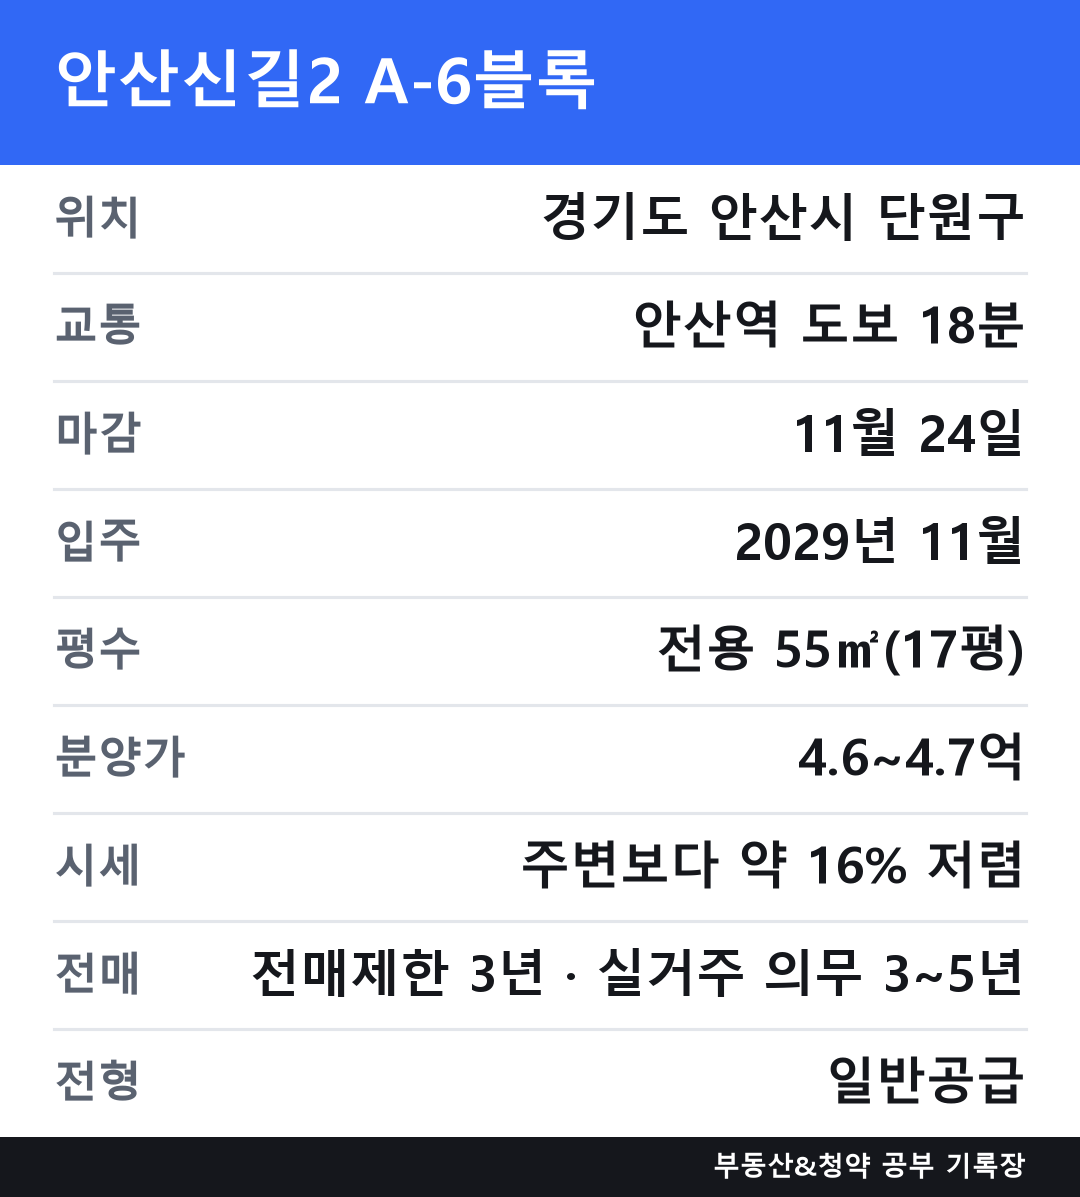
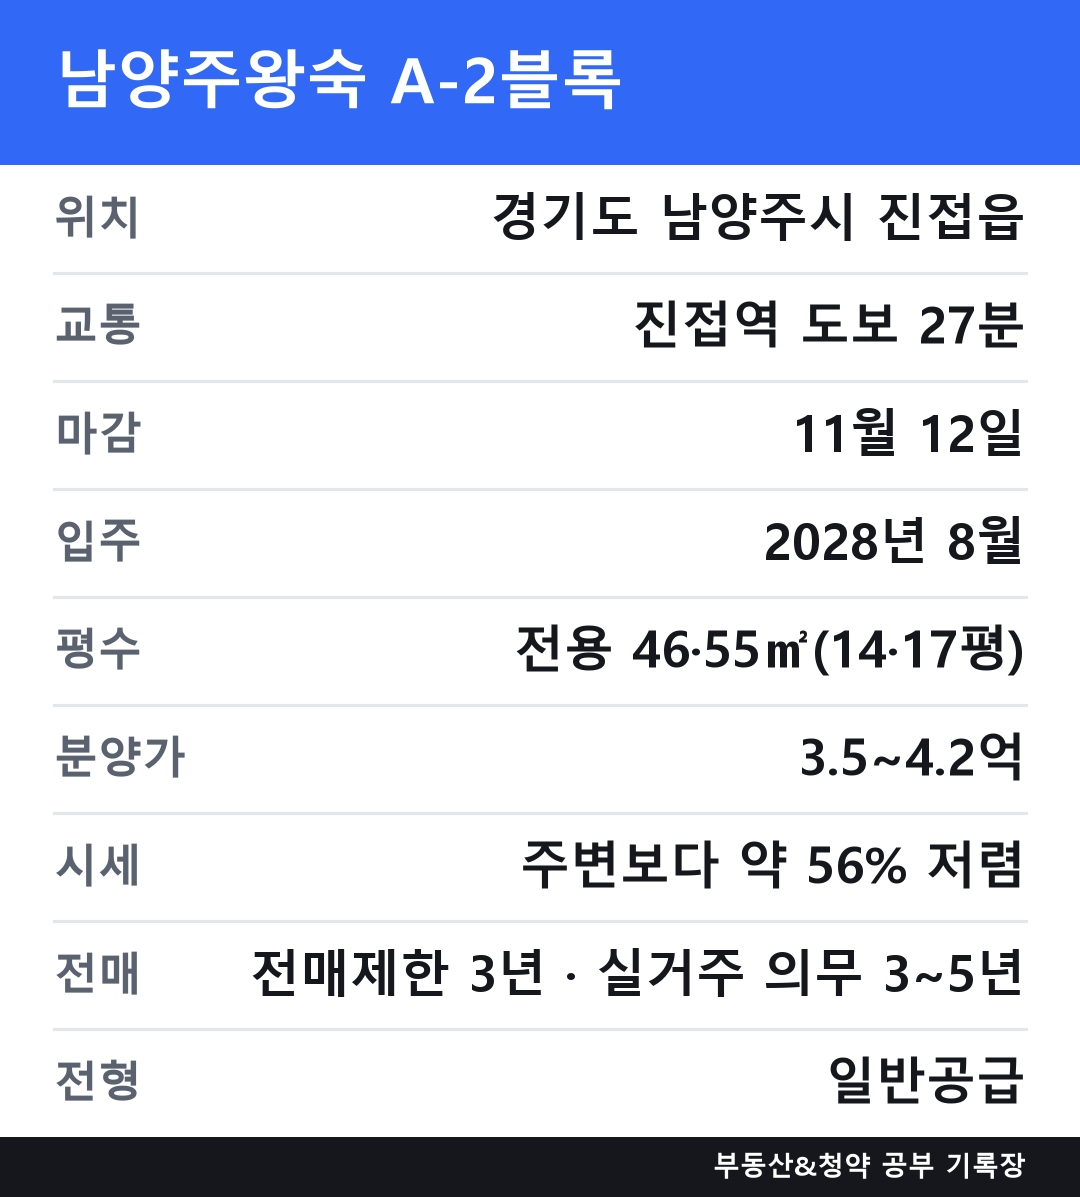
trial: 평면도 칸 (LH 팸플릿 자동, 나머지는 직접 넣는 자리)

diff --git a/src/main.py b/src/main.py
@@ -24,6 +24,7 @@ from . import (
     competition,
     detail,
     eligibility,
+    floorplan,
     geo,
     lease,
     market,
@@ -344,6 +345,29 @@ def _airy(html: str) -> str:
     return spaced.replace(GAP + HR, HR)  # 구분선 앞 빈 줄은 겹쳐 보인다
 
 
+PLAN_SLOT = "평면도 사진 넣는 자리"
+
+
+def _plan_html(item: dict, name: str) -> str:
+    """평면도 칸. 자동으로 못 가져온 공고는 사람이 사진을 넣을 자리를 둔다. 둘 다 없으면 칸이 없다."""
+    plans = item.get("floor_plans") or []
+    link = item.get("plan_link") or ""
+    if not plans and not link:
+        return ""
+    out = [HR + f"<p style='{HEAD}'>📐 {escape(name)} 평면도는?</p>"]
+    for cid, label in plans:
+        out.append(f"<p><img src='cid:{cid}' width='540' alt='{escape(name)} {escape(label)} 평면도'></p>"
+                   f"<p style='{SMALL}'>{escape(label)} 평면도 · 자료: LH {escape(name)} 팸플릿</p>")
+    if plans:
+        out.append(f"<p style='{SMALL}'>※ 입주자의 이해를 돕는 개략도라 실제와 다를 수 있어요. 같은 면적도 주택형에 따라 구조가 "
+                   "달라요. 이번에 공급하는 주택형은 공고문에서 확인하세요.</p>")
+    else:
+        source = "LH 공고 팸플릿" if "lh.or.kr" in link else f"{name} 분양 홈페이지"
+        out.append(f"<p style='color:#c33;font-weight:bold'>【{PLAN_SLOT} — 사진을 넣고 이 줄을 지우세요. 안 넣으면 이 칸을 통째로 지우세요】</p>"
+                   f"<p style='{SMALL}'>자료: {escape(source)}. 개략도라 실제와 다를 수 있어요.</p>")
+    return "".join(out)
+
+
 def _result_line(r: dict) -> str:
     """주변 단지 결과 한 줄: '• 단지 84A(2026년 9월 접수)는 1순위 해당지역 61.7대 1, 당첨 최저 가점 62점이에요.'"""
     ended = r["ended"].split("-")
@@ -483,6 +507,7 @@ def readable_html(profile: dict, sale_show, lease_show, verdicts, count: int, in
             if m.get("median"):
                 out.append(f"<p style='{BODY}'>주변 비슷한 면적 아파트의 최근 실거래 중위값은 <b>{m['median'] / 1e8:.1f}억</b>이에요. "
                            "자세한 시세 추이는 아래 그래프를 참고하세요.</p>")
+        out.append(_plan_html(top, name))
         priced = cash_models(top)
         if priced:
             low = priced[0]
@@ -702,6 +727,7 @@ CHECKLIST = (
         "맞춤법: 붙여넣은 뒤 에디터의 맞춤법 검사 한 번 (직접 덧붙인 문장 포함)",
         "이미지: 발행 후 휴대폰 네이버 앱에서 썸네일·그래프가 보이는지 확인",
         "본문: 표·이미지·링크 깨짐 없음",
+        "평면도: 빨간 자리가 남아 있지 않음, 주택형·출처가 맞음",
         "안내 문구: '가상 인물 · 판정은 참고용'이 맨 끝에 남아 있음",
         "태그: 붙여넣음, 관계없는 키워드 없음",
         "카테고리: 위 카테고리 선택",
@@ -731,6 +757,8 @@ def place_images(post: str, images: dict[str, bytes], folder: Path, base_url: st
     for number, cid in enumerate(order, 1):
         if cid.startswith("thumb"):
             name, slug = "썸네일", "thumb"
+        elif cid.startswith("plan"):
+            name, slug = "평면도", "plan"
         elif cid.startswith("card"):
             name, slug = "정보카드", "card"
         else:  # 그래프 바로 앞의 공고 카드 제목(h3)이 그 그래프의 단지
@@ -759,6 +787,8 @@ def build_mail(blog: dict, title: str, tags: list[str], issues: list, post: str)
         + row.format("제목", f"<b style='white-space:nowrap'>{escape(title)}</b>")
         + row.format("태그 (입력란에 붙여넣기)", f"<b>{escape(', '.join(tags))}</b>")
         + row.format("예약 발행", escape(blog.get("publish_time") or "-"))
+        + (row.format("평면도", "<b style='color:#c33'>본문 빨간 줄 자리에 직접 넣기</b> (본문의 📐 평면도 보기 버튼이나 공고의 팸플릿에서 "
+                      "해당 주택형 확인). 안 넣으면 그 칸을 지우세요.") if PLAN_SLOT in post else "")
         + row.format("사진", "본문을 그대로 복사하면 썸네일·그래프가 사진으로 함께 들어갑니다(공개 주소 이미지). "
                      "빠진 사진만 첨부 <b>01_썸네일 · 02_시세그래프…</b>로 넣으세요.")
         + (row.format("검증 메모", notes) if not issues else
@@ -863,6 +893,8 @@ def run_one(alias, profile, args, pool, owner, posted, today) -> str | None:
     if sale_show and not competition.enrich(sale_show[0], env("ODCLOUD_SERVICE_KEY"), today):
         issues.append(validate.Issue(1, "경쟁률", "주변 단지 경쟁률을 못 가져와 그 칸 없이 나감"))
     images: dict[str, bytes] = {}
+    if sale_show:
+        floorplan.enrich(sale_show[0], env("ODCLOUD_SERVICE_KEY"), images)
     count = len(sale_new) + len(lease_new)
     intro = readable_html(profile, sale_show, lease_show, verdicts, count,
                           intro_html(alias, blog, sale_show, lease_show, verdicts, count, today, short=True), today, images)
@@ -984,6 +1016,12 @@ if __name__ == "__main__":
     if os.environ.get("SELFTEST"):
         geo.selfcheck()
         competition.selfcheck()
+        floorplan.selfcheck()
+        slot = _plan_html({"plan_link": "http://a.example"}, "가나 단지")
+        assert PLAN_SLOT in slot and "가나 단지 분양 홈페이지" in slot, slot
+        slot = _plan_html({"floor_plans": [("plan0@blog", "46A1")]}, "가나 단지")
+        assert PLAN_SLOT not in slot and "cid:plan0@blog" in slot and "자료: LH 가나 단지 팸플릿" in slot, slot
+        assert _plan_html({}, "가나 단지") == ""
         line = _result_line({"name": "가나 단지", "ended": "2026-09-30", "type": "084.9115A", "rate": 61.69, "short": None,
                              "supply": 91, "low": 62, "average": 66})
         assert "84A(2026년 9월 접수)는 1순위 해당지역 <b>61.7대 1</b>, 당첨 최저 가점 <b>62점</b>·평균 66점이에요." in line, line

diff --git a/src/floorplan.py b/src/floorplan.py
@@ -1,0 +1,107 @@
+"""대표 공고의 평면도.
+
+LH 공고는 공고 페이지에 팸플릿 PDF가 붙어 있고, 글자가 살아 있는 팸플릿은 쪽마다 주택형(46A1 등)과
+평면도 그림이 따로 들어 있다(남양주왕숙 A-2, 2026-11-05 확인). 그 쪽에는 입체 그림(투명 배경 RGBA)과
+방 이름이 적힌 평면도(RGB)가 함께 있어 RGB 쪽을 고른다.
+
+쪽 전체가 통이미지인 팸플릿(안산신길2 A-6)은 주택형을 알 수 없어 넣지 않는다. 다른 주택형 도면이
+붙으면 틀린 글이 되기 때문이다. 민간 분양 사이트는 수집을 막거나(robots.txt) 구조가 제각각이라 받지 않는다.
+못 가져온 공고는 item['plan_link'] 로 사람이 직접 넣을 자리를 만든다.
+"""
+
+from __future__ import annotations
+
+import io
+import re
+
+import requests
+from pypdf import PdfReader
+
+from .notice_pdf import HEADERS, LH_FILE, lh_notice_page
+
+TIMEOUT = 90
+PLANS_MAX = 2  # 글에 넣는 면적 수
+MIN_SIDE = 300  # 가로·세로가 이보다 작은 그림은 치수 띠·옵션 도면·아이콘이다
+PAMPHLET = re.compile(r"""fileDownLoad\('(\d+)'\);?["']?\s*>([^<]*팸플릿[^<]*\.pdf)\s*<""", re.I)
+
+
+def page_label(text: str, area: int) -> str:
+    """이 쪽이 전용 area㎡의 평면도 쪽이면 주택형 이름('46A1'), 아니면 ''."""
+    if "평면도" not in text:
+        return ""
+    found = re.search(rf"(?<![\d.]){area}[A-Z]\d?(?![\dA-Za-z])", text)
+    return found.group(0) if found else ""
+
+
+def pick_plan(page) -> bytes | None:
+    """쪽에서 평면도 그림(투명 배경이 아닌 가장 큰 그림)을 PNG로."""
+    best = None
+    for picture in page.images:
+        image = picture.image
+        if image.mode != "RGBA" and min(image.size) >= MIN_SIDE and (
+                best is None or image.width * image.height > best.width * best.height):
+            best = image
+    if best is None:
+        return None
+    out = io.BytesIO()
+    best.convert("RGB").save(out, format="PNG")
+    return out.getvalue()
+
+
+def from_pamphlet(data: bytes, areas: list[int]) -> list[tuple[str, bytes]]:
+    """팸플릿에서 면적마다 첫 평면도 쪽의 (주택형, PNG)."""
+    reader = PdfReader(io.BytesIO(data))
+    texts = [page.extract_text() or "" for page in reader.pages]
+    found = []
+    for area in areas:
+        for page, text in zip(reader.pages, texts):
+            label = page_label(text, area)
+            png = pick_plan(page) if label else None
+            if png:
+                found.append((label, png))
+                break
+    return found
+
+
+def enrich(item: dict, key: str, images: dict) -> None:
+    """item['floor_plans'] = [(cid, 주택형)], 못 가져오면 item['plan_link'] 에 직접 찾을 주소."""
+    item["floor_plans"], item["plan_link"] = [], ""
+    home = str(item.get("homepage") or "").strip()
+    if "lh.or.kr" not in home:
+        item["plan_link"] = home if home.startswith("http") else ""
+        return
+    areas = list(dict.fromkeys(int(m["area"]) for m in item.get("matched_models") or [] if m.get("area")))[:PLANS_MAX]
+    try:
+        page_url = lh_notice_page(item, key) or ""
+        item["plan_link"] = page_url
+        if not page_url or not areas:
+            return
+        page = requests.get(page_url, headers=HEADERS, timeout=TIMEOUT).text
+        found = PAMPHLET.search(page)
+        if not found:
+            return
+        response = requests.get(LH_FILE.format(found.group(1)), headers=HEADERS, timeout=TIMEOUT)
+        response.raise_for_status()
+        plans = from_pamphlet(response.content, areas)
+    except Exception as exc:  # 깨진 PDF 는 pypdf 가 여러 종류의 예외를 낸다. 글은 직접 넣을 자리로 나간다
+        print(f"      평면도 가져오기 실패: {type(exc).__name__}")
+        return
+    for number, (label, png) in enumerate(plans):
+        images[f"plan{number}@blog"] = png
+        item["floor_plans"].append((f"plan{number}@blog", label))
+    if plans:
+        item["plan_link"] = ""
+
+
+def selfcheck() -> None:
+    assert page_label("※ 본 평면도 및 아이소는 개략도 46A1 46A2", 46) == "46A1"
+    assert page_label("※ 본 평면도 55D형 55D 주택", 55) == "55D"
+    assert page_label("남양주왕숙 총 608세대 46A1 446A2", 46) == ""  # '평면도' 쪽이 아니면 아니다
+    assert page_label("본 평면도 146A1 주택", 46) == ""
+    assert page_label("본 평면도 55A1", 46) == ""
+    item = {"homepage": "http://www.example.com"}
+    enrich(item, "", {})
+    assert item["plan_link"] == "http://www.example.com" and item["floor_plans"] == []
+    item = {"homepage": ""}
+    enrich(item, "", {})
+    assert item["plan_link"] == ""

diff --git a/src/notify_email.py b/src/notify_email.py
@@ -170,7 +170,7 @@ def link_bar(item: dict, today) -> str:
             f"✍ 청약 신청하기{where}{note}</a>"
         )
     home = str(item.get("homepage") or "").strip()
-    if home.startswith("http") and "lh.or.kr" not in home:  # 평면도는 저작물이라 싣지 않고 공식 사이트로 보낸다
+    if home.startswith("http") and "lh.or.kr" not in home:  # 평면도를 직접 찾아 넣을 때 쓴다
         links.append(f"<a href='{escape(home)}' style='{BUTTON};border:1px solid #ccc;color:#333'>📐 평면도 보기 (분양 홈페이지)</a>")
     return f"<div>{''.join(links)}</div>" if links else ""
 
